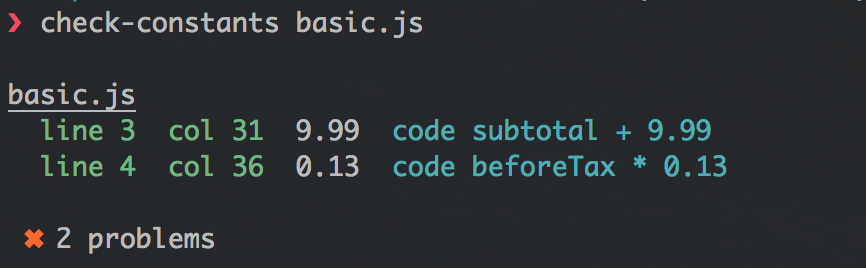
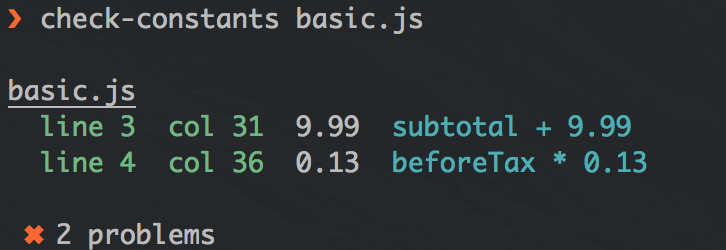
improve output

Changed region(s): [[0.0, 0.308, 0.9091, 0.7], [0.0, 0.028, 0.6061, 0.14], [0.0303, 0.84, 0.303, 1.0]]

diff --git a/bin/check-constants.js b/bin/check-constants.js
@@ -43,7 +43,7 @@ function outputTable(output) {
             chalk.gray('line ' + el.loc.start.line),
             chalk.gray('col ' + el.loc.start.column),
             el.value,
-            chalk.cyan('code ' + el.code)
+            chalk.cyan(el.code)
         ];
         if (el.file !== prevfile) {
             headers[i] = el.file;
